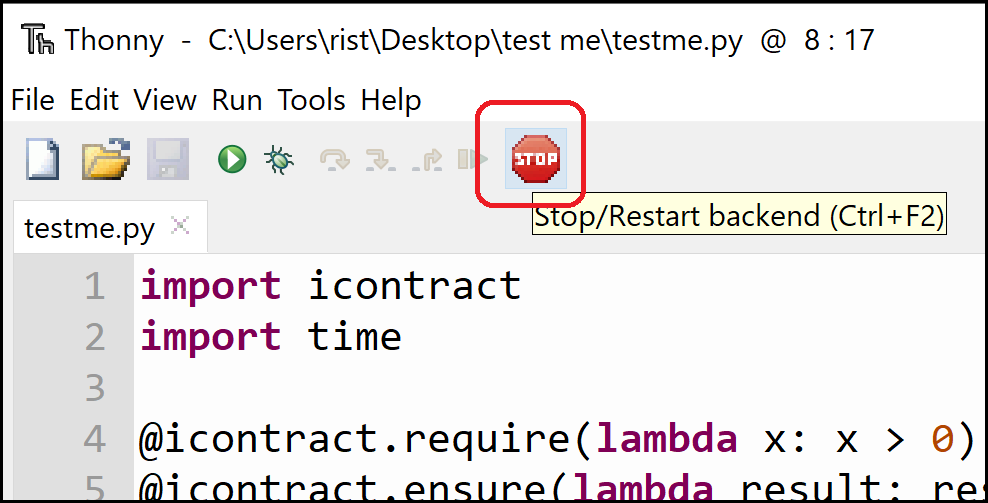
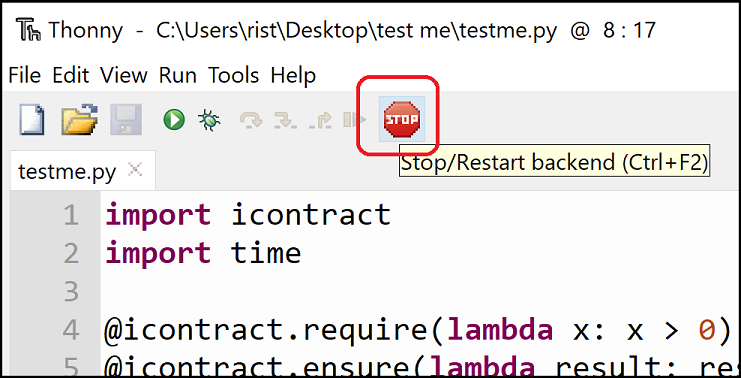
Add screenshot for installation in readme
This patch shows how to install the plug-in with a screenshot.
Additionally, it resizes all the images to 75% to make the screenshots a
bit more visually appealing.

diff --git a/README.rst b/README.rst
@@ -39,10 +39,15 @@ Go to ``Tools`` menu and select ``Manage plug-ins...``:
 
 .. image:: https://raw.githubusercontent.com/mristin/thonny-icontract-hypothesis/main/readme/manage_plugins.png
     :alt: Tools -> Manage plug-ins...
+    :width: 916
+    :height: 472
 
-Search for ``thonny-icontract-hypothesis``:
+Search for ``thonny-icontract-hypothesis`` on PyPI and click on the link to install it:
 
-TODO add screenshots once published
+.. image:: https://raw.githubusercontent.com/mristin/thonny-icontract-hypothesis/main/readme/search_on_pypi.png
+    :alt: Search on PyPI
+    :width: 1251
+    :height: 984
 
 With pip
 --------
@@ -59,6 +64,8 @@ menu and select ``Test the current file with icontract-hypothesis``:
 
 .. image:: https://raw.githubusercontent.com/mristin/thonny-icontract-hypothesis/main/readme/tools_test.png
     :alt: Tools->Test
+    :width: 909
+    :height: 475
 
 All changes to the file will be saved prior to executing the tests.
 If you prefer, you can undo them.
@@ -67,11 +74,15 @@ The tests will be executed in the Thonny shell:
 
 .. image:: https://raw.githubusercontent.com/mristin/thonny-icontract-hypothesis/main/readme/shell.png
     :alt: Shell running the tests
+    :width: 1317
+    :height: 1045
 
 You can stop the tests with the "Stop" sign:
 
 .. image:: https://raw.githubusercontent.com/mristin/thonny-icontract-hypothesis/main/readme/stop.png
     :alt: Stop the tests
+    :width: 741
+    :height: 378
 
 Sometimes it is practical to test only a single function (*e.g.*, if it takes too long
 to test the whole file).
@@ -81,6 +92,8 @@ icontract-hypothesis``:
 
 .. image:: https://raw.githubusercontent.com/mristin/thonny-icontract-hypothesis/main/readme/tools_test_at.png
     :alt: Tools->Test at
+    :width: 917
+    :height: 471
 
 Contributing
 ============
